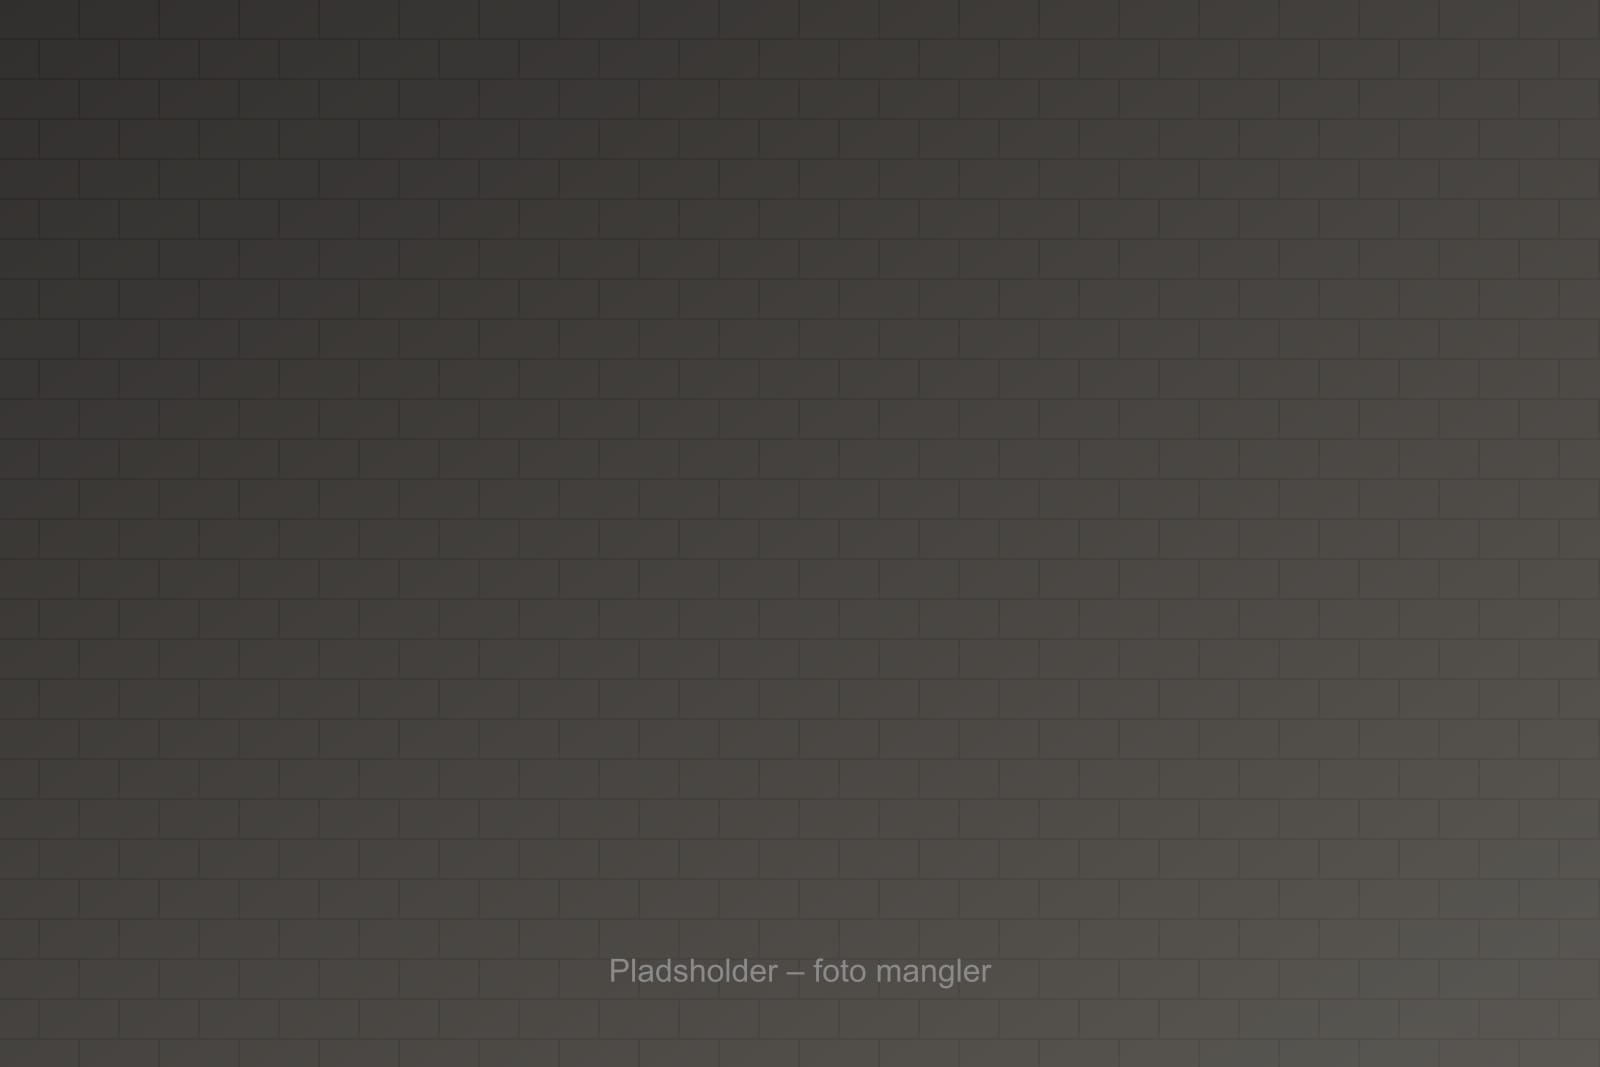
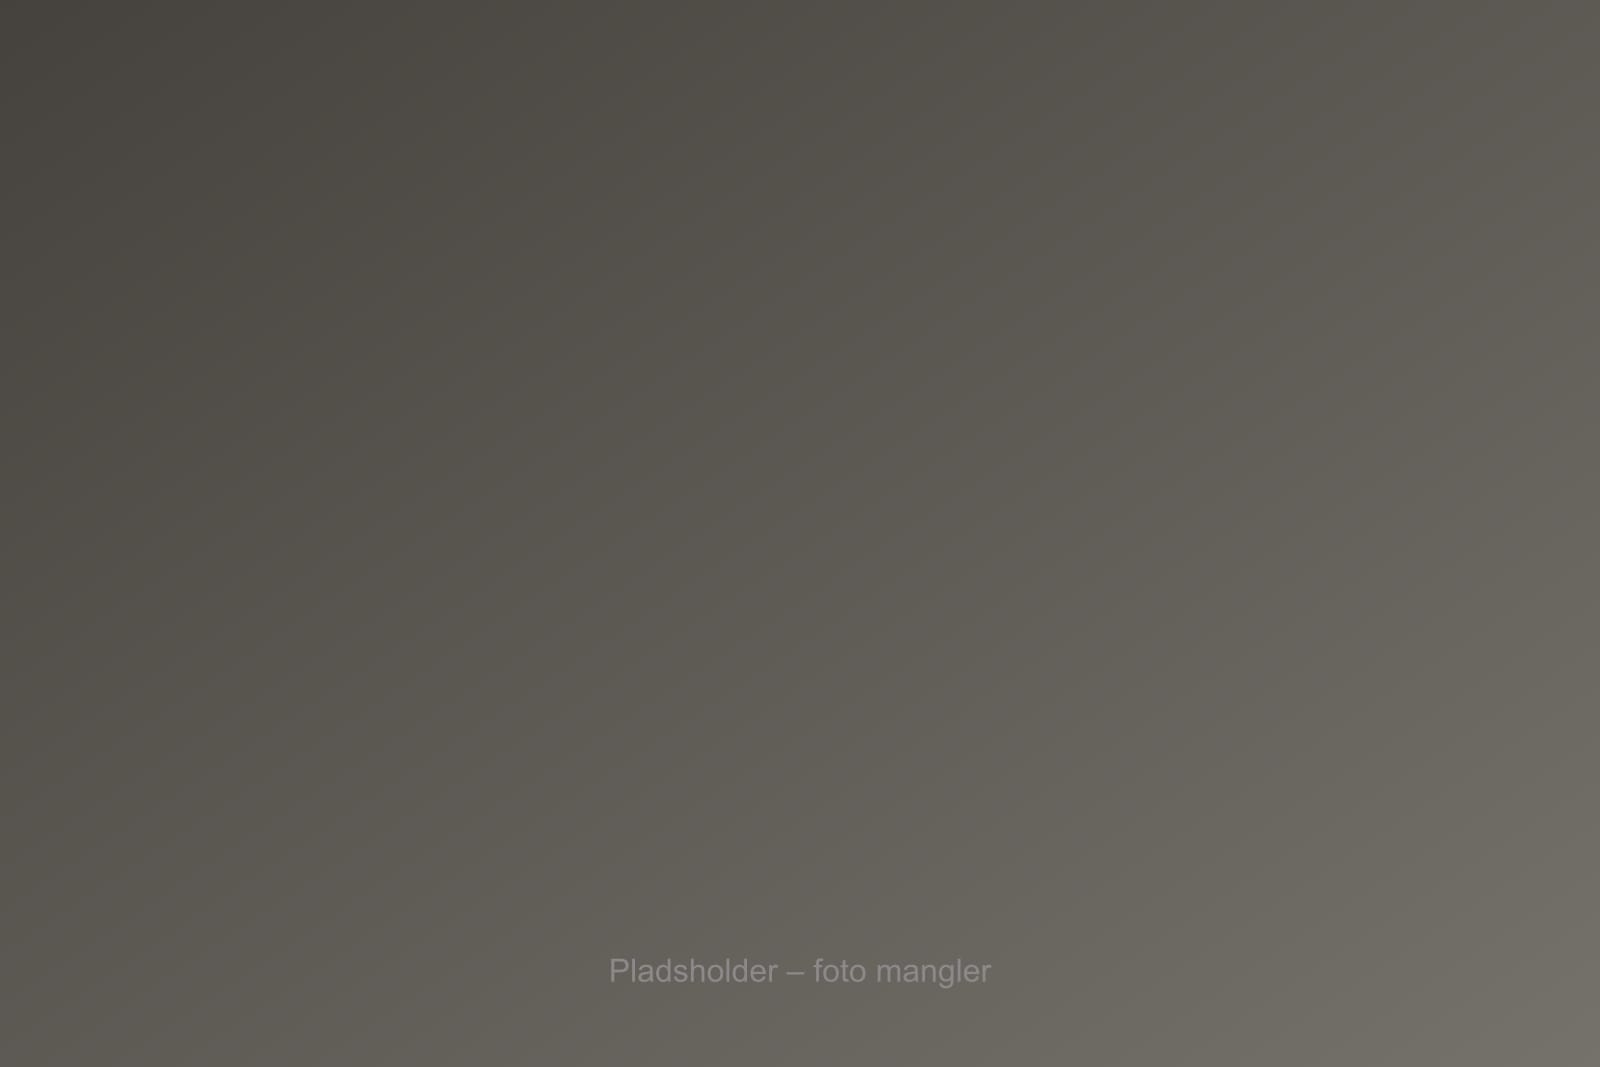
fix: make paving texture visible on low, wide sections (#7)
The diagonal fade left almost nothing visible on short full-width
sections (key figures, contact). Use a horizontal fade that never
reaches zero and raise opacity slightly. Regenerate placeholder
photos without the brick pattern so they don't read as a second
texture.

diff --git a/src/styles/global.css b/src/styles/global.css
@@ -60,7 +60,8 @@ img, svg { display: block; max-width: 100%; height: auto; }
   background: var(--color-bg-inverse);
   color: var(--color-text-inverse);
 }
-/* Paving texture, strongest in the top-right corner and fading out. */
+/* Paving texture: strongest at the right, never fading out completely.
+   Horizontal fade (not diagonal) so low, wide sections still show it. */
 .section--inverse::before {
   content: "";
   position: absolute;
@@ -68,7 +69,7 @@ img, svg { display: block; max-width: 100%; height: auto; }
   z-index: -1;
   background-image: var(--texture-paving);
   opacity: var(--texture-opacity);
-  mask-image: linear-gradient(to bottom left, #000 0%, rgb(0 0 0 / 0.35) 55%, transparent 90%);
+  mask-image: linear-gradient(to left, #000 0%, rgb(0 0 0 / 0.7) 45%, rgb(0 0 0 / 0.35) 100%);
   pointer-events: none;
 }
 /* On black, links are white (red on black fails contrast). */

diff --git a/src/styles/tokens.css b/src/styles/tokens.css
@@ -60,7 +60,7 @@
      Only for --ba-black backgrounds:
      bueforbandt.svg occludes overlapping fans with #131313. */
   --texture-paving: url("../assets/patterns/bueforbandt.svg");
-  --texture-opacity: 0.09;
+  --texture-opacity: 0.12;
 
   /* Motion. One rhythm for the whole site: decisive start, soft landing. */
   --ease-out: cubic-bezier(0.2, 0.7, 0.2, 1);
